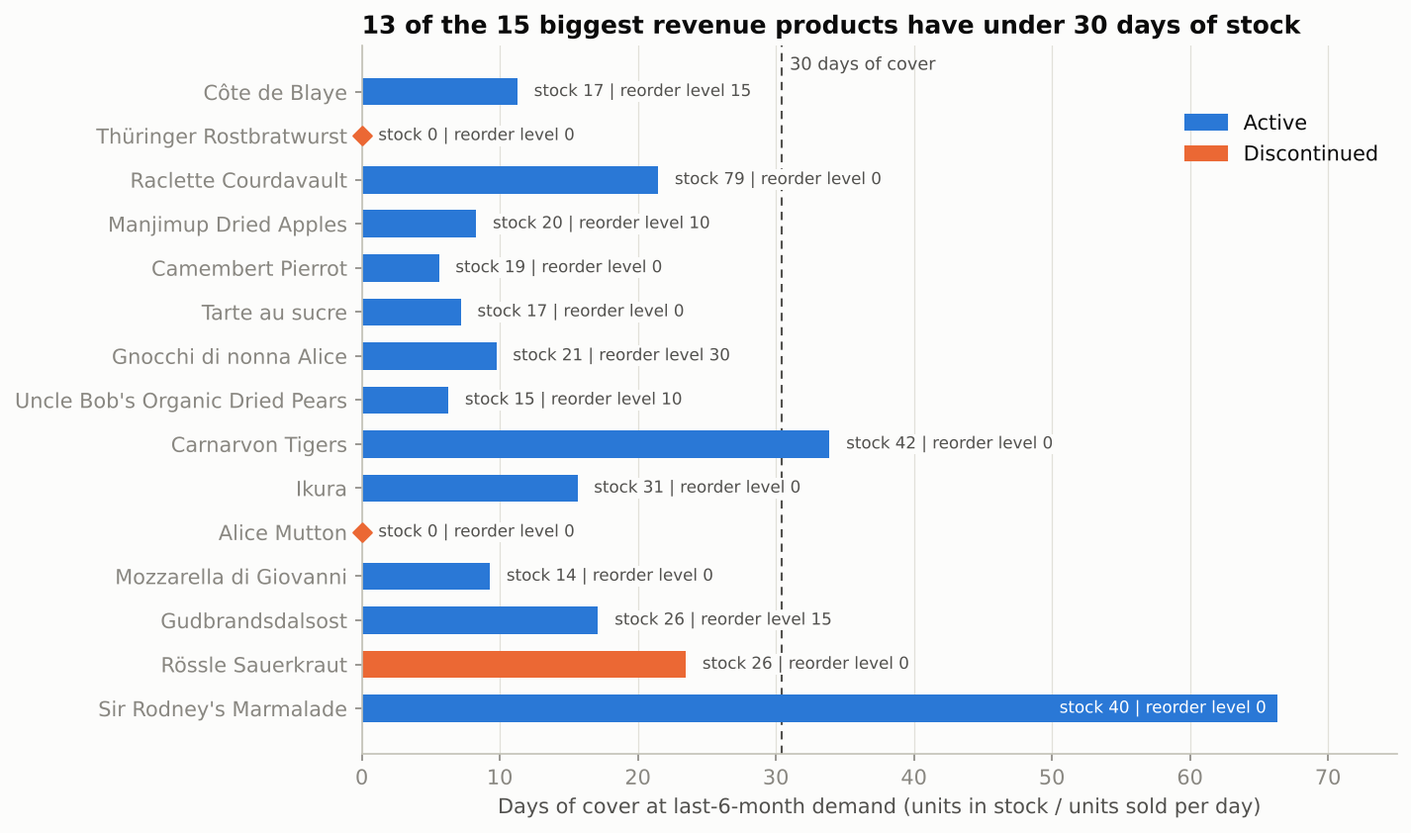
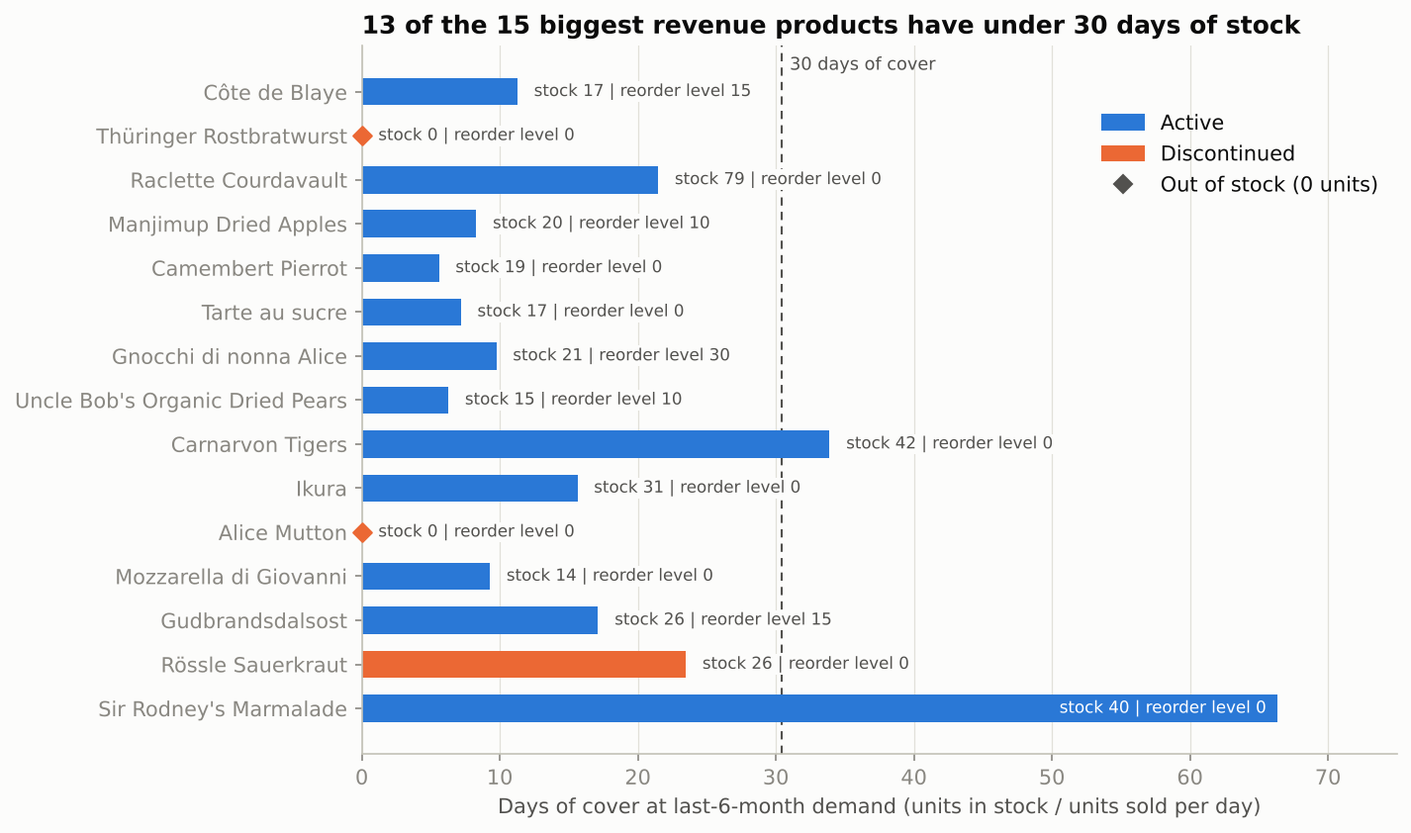
Plain-language webpage, clearer figures, etc

Changed region(s): [[0.7714, 0.1235, 0.9874, 0.247]]

diff --git a/docs/index.html b/docs/index.html
@@ -35,11 +35,11 @@
 <body>
 <main>
 <h1>Northwind: three questions about stock, growth and discounts</h1>
-<p class="lede">The Northwind database covers 830 orders (2,155 order lines) from July 1996 to early May 1998, with 91 customers, 77 products and 29 suppliers. I picked three questions where the data can support an answer, and I state where it cannot. Every number and chart here is produced by the Python code in the <a href="https://github.com/Cheltonio/Northwind-Database-Analysis-Code">GitHub repository</a>.</p>
+<p class="lede">The Northwind database covers 830 orders (2,155 order lines) from July 1996 to early May 1998, with 91 customers (89 of them placed an order), 77 products and 29 suppliers. I picked three questions the data can actually answer, and each section says where the data falls short. Every number and chart here is produced by the Python code in the <a href="https://github.com/Cheltonio/Northwind-Database-Analysis-Code">GitHub repository</a>.</p>
 
 <h3>Data notes that apply throughout</h3>
 <ul class="caveat">
-  <li><strong>Price increase.</strong> Prices rose a uniform 25% on 7 April 1997. To keep that from looking like growth, "constant-price revenue" values every line at the current list price: list price × quantity × (1 − discount).</li>
+  <li><strong>Price increase.</strong> Prices rose a uniform 25% on 7 April 1997. To keep that from looking like growth, "constant-price revenue" prices every line at the current list price, so a sale is worth the same in 1996 as in 1998 (list price × quantity × (1 − discount)).</li>
   <li><strong>Partial final month.</strong> Data ends on 6 May 1998, so May 1998 is excluded and all windows end in April 1998.</li>
   <li><strong>No cost data.</strong> Everything is revenue, not profit.</li>
 </ul>
@@ -53,7 +53,7 @@
   <p>A stock-out on a product that sells well costs revenue immediately, while a reorder level that ignores demand means the replenishment rule is not doing its job. Revenue is concentrated, so a few products carry most of the risk.</p>
 
   <h3>Approach</h3>
-  <p>Demand is each product's average monthly units over the last six full months (Nov 1997 to Apr 1998). Days of cover is units in stock divided by demand, scaled to days. I compare reorder levels to demand with a Spearman rank correlation, measure how revenue concentrates across products and suppliers, and repeat the cover calculation with 3-month and all-time demand windows to check the result does not depend on the window.</p>
+  <p>Demand is each product's average monthly units over the last six full months (Nov 1997 to Apr 1998). Days of cover is units in stock divided by demand, scaled to days. To see whether reorder levels follow demand, I check whether products that sell more also have higher reorder levels (a rank correlation, where 0 means no link and 1 means a perfect link). I also measure how much revenue comes from a few products and suppliers, and repeat the cover calculation with 3-month and all-time demand to confirm the answer does not depend on the time window.</p>
 
   <figure>
     <img src="figures/q1_reorder_vs_demand.png" alt="Scatter plot of reorder level against average monthly units sold; no visible relationship">
@@ -77,12 +77,12 @@
   </table></div>
 
   <h3>Main finding</h3>
-  <div class="finding"><p>Reorder levels are unrelated to demand (Spearman ρ = −0.01). 24 products have a reorder level of zero, and together they carry 41.8% of recent revenue. 13 of the 15 highest-revenue products have under 30 days of stock, and 80% of recent revenue sits in products with under 30 days of cover. Only one product is below its reorder level with nothing on order, so the problem is the rule, not missed execution of it.</p></div>
+  <div class="finding"><p>Reorder levels have essentially no link to demand (correlation −0.01, where 0 means none). 24 products have a reorder level of zero, and together they carry 41.8% of recent revenue. 13 of the 15 highest-revenue products have under 30 days of stock, and 80% of recent revenue sits in products with under 30 days of cover. Only one product is below its reorder level with nothing on order, so the problem is the reorder rule itself, not staff ignoring it.</p></div>
 
   <h3>Business implication</h3>
   <p>Reset reorder levels from demand (for example, a target number of days of cover with a supplier lead-time buffer), starting with the 11 products that make up half of revenue. Review the 8 discontinued products separately, since they still account for 13.7% of recent revenue.</p>
 
-  <p class="caveat"><strong>Limits.</strong> The stock figures are a single undated snapshot, so cover is measured against past demand, not a forecast. There is no lead-time data, so "under 30 days" is a screening threshold, not proof of a stock-out. 76 of the 77 products sold in the window. The count of products flagged as under 30 days among active products is 38, 36 and 34 under the 6-month, 3-month and all-time windows, and 30 are flagged in all three.</p>
+  <p class="caveat"><strong>Limits.</strong> The stock figures are a single undated snapshot, so cover is measured against past demand, not a forecast. There is no lead-time data, so "under 30 days" is a screening threshold, not proof of a stock-out. 76 of the 77 products sold in the window. Counting only active (not discontinued) products, 38, 36 and 34 are under 30 days of cover using 6-month, 3-month and all-time demand, and 30 are flagged under all three.</p>
 </section>
 
 <!-- ============ Q2 ============ -->
@@ -94,7 +94,7 @@
   <p>Each source of growth calls for a different plan: acquiring customers, getting existing customers to order more often, or growing order size. Knowing which markets are ahead of or behind the company average shows where sales effort is most likely to pay off.</p>
 
   <h3>Approach</h3>
-  <p>I compare two ten-month windows, Jul 1996 to Apr 1997 and Jul 1997 to Apr 1998, using constant-price revenue. Revenue is split exactly as customers × orders per customer × revenue per order, and the dollar change is attributed to each factor with a logarithmic-mean weighting. Markets are assigned by the customer's country. For each market I measure the "gap vs. company growth": its actual revenue in the later window minus what it would have earned had it grown at the company rate. A like-for-like check follows only the 42 customers who were already ordering in the earlier window.</p>
+  <p>I compare two ten-month windows, Jul 1996 to Apr 1997 and Jul 1997 to Apr 1998, using constant-price revenue. Revenue equals the number of customers × orders per customer × revenue per order, so I split the dollar change into those three pieces (using a standard weighting so the pieces add up exactly to the total). Markets are assigned by the customer's country. For each market I measure its "gap vs. company growth": its actual revenue in the later period minus what it would have earned if it had grown at the company-wide rate. As a check, I also follow only the 42 customers who were already ordering in the earlier period, so new customers cannot explain the result.</p>
 
   <figure>
     <img src="figures/q2_growth_drivers_by_market.png" alt="Bar chart decomposing revenue change by market into customers, orders per customer and order size">
@@ -137,7 +137,7 @@
   <p>Discounts cost revenue on every unit that would have sold anyway. They only pay off if they bring in enough extra units to cover it, and a discount of d% needs a lift of d/(1−d), for example 33% extra units for a 25% discount.</p>
 
   <h3>Approach</h3>
-  <p>38.9% of the 2,155 order lines carry a discount (5%, 10%, 15%, 20% or 25%), giving up $88.7K, or 6.5% of $1.35M gross revenue at listed prices. I regress log quantity on discount-tier indicators, always holding the product fixed, and then add customer fixed effects so the comparison is a customer against itself. Intervals come from an order-level bootstrap (1,000 resamples). Order 11077 has off-tier discounts and is left out of the tier models. This is an association: Northwind did not randomize discounts, and there is no cost data.</p>
+  <p>38.9% of the 2,155 order lines carry a discount (5%, 10%, 15%, 20% or 25%), giving up $88.7K, or 6.5% of $1.35M gross revenue at listed prices. To estimate how many extra units a discount brings, I use a regression that compares the quantity ordered at each discount level against no discount for the same product. I then add a second version that also compares each customer only against itself, because some customers may simply order more. The ranges shown (95% confidence intervals) come from re-running the analysis on 1,000 resampled sets of orders. Order 11077 has off-tier discounts and is left out of the tier models. This is an association: Northwind did not randomize discounts, and there is no cost data.</p>
 
   <figure>
     <img src="figures/q3_discount_lift_vs_break_even.png" alt="Estimated unit lift by discount tier with and without customer controls, against break-even lift">
@@ -162,8 +162,8 @@
   </table></div>
 
   <h3>Main finding</h3>
-  <div class="finding"><p>Discounted lines sell more units (27.5 vs. 21.9 on average, Kruskal-Wallis p ≈ 2×10⁻⁹), and within the same product the estimated lift is about 30% at every tier. Deeper discounts do not lift more: the 25% tier is not distinguishable from the 5% tier. But the lift largely vanishes when I compare a customer with itself, where every tier's interval includes zero. Larger customers are discounted more often (Spearman 0.40 between customer volume and discount share), so much of the raw lift reflects who gets discounts, not what the discount did.</p></div>
-  <p>Counting all of the across-customer lift as caused by discounts, discounts would net about +$52K (95% CI +$14K to +$96K), mostly from the 5% tier. Under the same-customer estimate the net is about −$71K (−$117K to −$29K), with the 10% to 25% tiers each losing money. Four of five tiers have a confidence interval that dips below their break-even lift even under the optimistic estimate.</p>
+  <div class="finding"><p>Discounted lines sell more units (27.5 vs. 21.9 on average, Kruskal-Wallis p ≈ 2×10⁻⁹), and when the same product is compared, discounted lines sell roughly 30% more units, at every tier. Deeper discounts do not lift more: the 25% tier is not distinguishable from the 5% tier. But the extra units largely disappear when each customer is compared only with itself: for every tier, the range of plausible values includes zero. Larger customers are discounted more often (Spearman 0.40 between customer volume and discount share), so much of the apparent lift reflects who receives discounts, not what the discount did.</p></div>
+  <p>Counting all of the across-customer lift as caused by discounts, discounts would net about +$52K (95% CI +$14K to +$96K), mostly from the 5% tier. Under the same-customer estimate the net is about −$71K (−$117K to −$29K), with the 10% to 25% tiers each losing money. Even under the optimistic estimate, for four of the five tiers the plausible range for the lift dips below what is needed to break even.</p>
 
   <h3>Business implication</h3>
   <p>The evidence does not support deep discounts as a volume driver: depth does not buy more units, and a 25% discount needs a 33% lift to break even. If discounts continue, shallow ones targeted at accounts where they can be tested are the defensible choice. Better still, run a controlled test (discount a random subset of comparable accounts) to separate customer effects from discount effects. Discount frequency also varies across employees (31.5% to 50.4% of lines), which suggests discounts are not following a consistent rule.</p>
@@ -172,7 +172,7 @@
 </section>
 
 <footer class="caveat">
-  <p>Source: Northwind database PDF, extracted to CSV by <code>src/extract_data.py</code>. Reproduce everything with <code>python src/run_all.py</code>; see the repository README.</p>
+  <p>Source: Northwind database PDF, extracted to CSV by <code>src/extract_data.py</code>. Reproduce everything with <code>python src/run_all.py</code>; instructions are in the repository README.</p>
 </footer>
 </main>
 </body>

diff --git a/src/q3_discounts.py b/src/q3_discounts.py
@@ -90,7 +90,8 @@ def revenue_components(price, qty, disc, lifts):
     caused by the discount.
 
     Args:
-        price (numpy.ndarray): List unit price per line.
+        price (numpy.ndarray): Pre-discount unit price charged per
+            line (``UnitPrice``, not ``ListPrice``).
         qty (numpy.ndarray): Units sold per line.
         disc (numpy.ndarray): Discount rate per line.
         lifts (numpy.ndarray): Fractional unit lift for each tier.
@@ -220,9 +221,12 @@ def selection_tables(d):
         d (pandas.DataFrame): Output of ``tier_data``.
 
     Returns:
-        tuple: Discount share by customer-size quartile; by employee;
-        Spearman rho of customer units and discount share; chi-square
-        p-value across employees; Spearman rho of order value and mean
+        tuple[pandas.DataFrame, pandas.DataFrame, float, float, float]:
+        Customers, lines and discounted share per customer-volume
+        quartile; lines, discounted share and mean depth when
+        discounted per employee; Spearman rho of customer units vs.
+        discounted share; chi-square p-value of discounting across
+        employees; Spearman rho of pre-discount order value vs. mean
         discount.
     """
     d = d.copy()
@@ -290,7 +294,7 @@ def plot_lift(tables):
     ax.scatter(x, be, marker="D", s=70, facecolor="none", edgecolor=INK, linewidth=1.4, zorder=4,
                label="Lift needed to break even on revenue")
     for xi, v in zip(x, be):
-        ax.annotate(f"{v:.0f}%", (xi, v), xytext=(-10, -2), textcoords="offset points", ha="right",
+        ax.annotate(f"{v:.0f}%", (xi, v), xytext=(0, 11), textcoords="offset points", ha="center",
                     fontsize=8.5, color=INK_2, va="center")
     ax.axhline(0, color=INK_2, lw=0.8)
     ax.set_xticks(x)
@@ -322,7 +326,7 @@ def plot_revenue(rev_by_spec):
         r = rev_by_spec[spec]
         point_range(ax, x, r["net_revenue_effect"].values / 1000, r["net_ci_low"].values / 1000,
                     r["net_ci_high"].values / 1000, SCENARIO_COLORS[spec],
-                    f"If the lift is the {SCENARIO_LABELS[spec].lower()} estimate", offset)
+                    f"Assuming the lift measured within: {SCENARIO_LABELS[spec].lower()}", offset)
         for xi, v in zip(x, r["net_revenue_effect"].values / 1000):
             ax.annotate(f"{v:+.0f}K", (xi + offset, v), xytext=(9 if offset > 0 else -9, 0),
                         textcoords="offset points", va="center",

diff --git a/src/q2_markets.py b/src/q2_markets.py
@@ -220,9 +220,9 @@ def plot_drivers(grouped):
         pos_left += np.where(vals >= 0, vals, 0)
         neg_left += np.where(vals < 0, vals, 0)
     ax.scatter(order["usd_change"] / 1000, y, marker="D", s=46, color=INK, zorder=4)
-    for yi, v in zip(y, order["usd_change"] / 1000):
-        ax.annotate(f"{v:+.0f}K", (v, yi), xytext=(8 if v >= 0 else -8, 0), textcoords="offset points",
-                    va="center", ha="left" if v >= 0 else "right", fontsize=8.5, color=INK_2)
+    for yi, v, edge in zip(y, order["usd_change"] / 1000, pos_left):
+        ax.annotate(f"net {v:+.0f}K".replace("-", "\u2212"), (max(edge, v), yi), xytext=(10, 0),
+                    textcoords="offset points", va="center", ha="left", fontsize=8.5, color=INK_2)
     ax.axvline(0, color=INK_2, lw=0.8)
     ax.set_yticks(y)
     ax.set_yticklabels(labels)
@@ -231,7 +231,7 @@ def plot_drivers(grouped):
     handles = [Patch(color=colors[k], label=DRIVER_LABELS[k]) for k in DRIVERS]
     handles.append(plt.Line2D([0], [0], marker="D", color="none", markerfacecolor=INK,
                               markeredgecolor=INK, label="Net change", markersize=6))
-    ax.legend(handles=handles, loc="center right", bbox_to_anchor=(1.0, 0.45))
+    ax.legend(handles=handles, loc="upper center", bbox_to_anchor=(0.45, -0.13), ncol=2, frameon=False)
     ax.grid(axis="y", visible=False)
     save_fig(fig, "q2_growth_drivers_by_market")
 

diff --git a/src/q1_inventory.py b/src/q1_inventory.py
@@ -20,7 +20,7 @@ DAYS_PER_MONTH = 30.4
 
 
 def monthly_units(lines):
-    """Total units per product and month, to the last full month.
+    """Sum units per product and month, up to the last full month.
 
     Args:
         lines (pandas.DataFrame): Order lines from ``build_lines``.
@@ -163,7 +163,9 @@ def plot_cover(d):
     ax.set_xlabel("Days of cover at last-6-month demand (units in stock / units sold per day)")
     ax.set_xlim(0, 75)
     ax.set_title(f"{n_under} of the 15 biggest revenue products have under 30 days of stock")
-    ax.legend(handles=[Patch(color=BLUE, label="Active"), Patch(color=ORANGE, label="Discontinued")],
+    ax.legend(handles=[Patch(color=BLUE, label="Active"), Patch(color=ORANGE, label="Discontinued"),
+                       plt.Line2D([0], [0], marker="D", color="none", markerfacecolor=INK_2,
+                                  markeredgecolor=INK_2, markersize=6, label="Out of stock (0 units)")],
               loc="upper right", bbox_to_anchor=(1.0, 0.93))
     ax.grid(axis="y", visible=False)
     save_fig(fig, "q1_cover_top_products")

diff --git a/.claude/skills/python-docstrings/SKILL.md b/.claude/skills/python-docstrings/SKILL.md
@@ -1,0 +1,221 @@
+---
+name: python-docstrings
+description: Write concise PEP 8 / PEP 257 compliant docstrings for Python code in a single pass. Every function and method docstring gets one line per input parameter and a line for the output. After writing, show the user each docstring and list any ambiguities that were resolved by assumption, so the user can accept the result or ask for fixes. Use when the user asks to document Python code, add or fix docstrings, or make docstrings PEP 8 / PEP 257 compliant.
+---
+
+# Python Docstrings
+
+Write docstrings for the Python code the user points to in **one pass, without asking questions first**. Then report what was written and what was assumed. The user decides whether the result is good enough or whether to continue the conversation to fix it.
+
+## Workflow
+
+### 1. Determine Scope
+
+Document what the user named: a file, a function, a selection, or a directory. If nothing is named but Python code is in the conversation, document that.
+
+- Default to **all functions, methods, and classes** in scope, plus the module docstring if the user gave a whole file.
+- Skip functions that already have a docstring meeting every rule below. Rewrite ones that don't, and say so in the report.
+- Only ask before starting if the scope itself can't be determined (e.g., "document my code" with no file and no code in the conversation).
+
+### 2. Read Before Writing
+
+Read each function's full body, not just its name and signature. Also read:
+- Functions it calls and functions that call it, when needed to understand what an argument means or what the return value is used for
+- Project config (`pyproject.toml`, `setup.cfg`, `.ruff.toml`) for a `pydocstyle` convention or line-length setting
+- A few existing docstrings in the project to detect the style in use
+
+### 3. Write the Docstrings
+
+Edit the file in place, touching **only docstrings**. Never change code, names, signatures, or formatting. If you notice a bug, note it in the report and leave the code alone.
+
+Follow the **Docstring Rules** below. Aim for the shortest docstring that is accurate and complete.
+
+### 4. Resolve Ambiguity by Principled Choice
+
+When the meaning of a parameter or return value isn't certain from the code, **don't stop to ask**. Pick the most defensible reading and record it. In order of preference, base the choice on:
+
+1. What the code actually does (always wins over the name)
+2. How callers in the codebase use it
+3. Names, type hints, and default values
+4. Domain conventions (e.g., `fps` is frames per second, `lr` is learning rate)
+
+Describe behavior the code actually has, even if it looks unintended. For example, if a function mutates its input and also returns it, document both. Don't write vague wording to hide uncertainty ("some value", "the data"). Commit to a specific description and flag it.
+
+### 5. Report
+
+After editing, reply with the following and nothing more:
+
+**Docstrings written**: for each function, method, or class, its location and the docstring as written:
+
+````markdown
+#### `resample_frames` — [video.py:42](video.py:42)
+```python
+"""Resample video frames to a new frame rate.
+
+Args:
+    frames (list[numpy.ndarray]): RGB frames in display order.
+    target_fps (float): Output frame rate in frames per second.
+
+Returns:
+    list[numpy.ndarray]: Resampled frames, same shape and dtype.
+"""
+```
+````
+
+**Assumptions to check**: a numbered list of every ambiguity resolved by choice. Each item names the function and parameter, states what was assumed, and gives the evidence for it in one sentence:
+
+```markdown
+1. `resample_frames` / `target_fps`: assumed frames per second, not
+   a ratio. It is divided into `len(frames) / duration` on line 51.
+2. `load_labels` returns `None` when the file is missing, because the
+   `FileNotFoundError` is caught on line 88. Documented as a return case.
+```
+
+If there were none, write "None. Every docstring is based directly on the code."
+
+**Also noticed** (only if applicable): suspected bugs, misleading names, or stale comments. One line each. Don't fix them.
+
+End with one line telling the user they can reply with numbered corrections (e.g., "1: it's a ratio") or ask for any docstring to be rewritten.
+
+Don't add extra commentary, restate the rules, or describe the process.
+
+### Follow-up Turns
+
+If the user replies with corrections, apply them, then show only the docstrings that changed. If a correction affects other docstrings (e.g., a shared parameter like `df` that appears across functions), update those too and say which ones.
+
+## Docstring Rules
+
+### Conciseness
+
+- The summary line says what the function does in as few words as possible. No "This function...", "Helper to...", or "Used to...".
+- Add an extended description only when the summary and the argument and return lines can't convey something the caller needs: a side effect, a non-obvious algorithm, a precondition, or a performance caveat. Most functions need none.
+- Each parameter line is one short phrase saying what the value **is**, plus a unit, range, shape, or `None` meaning only when it matters. Wrap to a second line only when necessary.
+- Don't restate the type in prose ("an integer that is...") or the obvious ("the path to the file" for `path`, unless saying what file).
+- Omit `Examples` sections unless the user asks for them.
+
+### The Input/Output Rule (mandatory)
+
+Every function and method docstring is multi-line and contains:
+
+1. **One line per input parameter**, in signature order, with name, type, and what it represents. Include `*args`, `**kwargs`, and keyword-only parameters. Exclude only `self` and `cls`. Mention a default only when its effect isn't obvious.
+2. **An output line, always**:
+   - `Returns:` with type and meaning.
+   - For no return value: `Returns:` / `None.`, optionally with what the function does instead ("None. Writes the CSV to ``out_path``.").
+   - For generators: `Yields:` with the type and meaning of each item.
+   - For tuples: describe each element.
+3. **`Raises:`** only for exceptions the function raises on purpose and that callers should handle.
+
+If the function takes no parameters, write `Args:` / `None.`
+
+Type hints don't remove the need for any of these lines. If the signature has hints, the docstring type may be left out only if the project's existing docstrings do so.
+
+### PEP 8 / PEP 257 Format
+
+- Triple double quotes `"""`. Use `r"""` if the docstring contains backslashes.
+- Summary line: one line, imperative mood ("Return...", not "Returns..."), ends with a period, doesn't restate the signature.
+- One blank line between the summary and the rest.
+- The closing `"""` goes on its own line for multi-line docstrings.
+- No blank line before or after a function docstring. One blank line after a class docstring.
+- Body indented to match the opening quotes.
+- Lines at most 72 characters, unless project config says otherwise.
+- Module docstrings go at the very top of the file, before imports. One or two lines describing what the module provides.
+- Class docstrings: summary, constructor `Args:`, and public `Attributes:`. Put constructor args in the class docstring or in `__init__`, matching the project, never both.
+
+### Style
+
+Use the project's existing style (Google, NumPy, or reST). If there is none, use **Google style**. Never mix styles in one project.
+
+**Google (default):**
+
+```python
+def save_labels(labels, out_path):
+    """Write frame labels to a CSV file.
+
+    Args:
+        labels (dict[int, str]): Label for each frame index.
+        out_path (pathlib.Path): Destination CSV; overwritten if present.
+
+    Returns:
+        None.
+    """
+```
+
+```python
+def iter_batches(items, size):
+    """Split items into consecutive batches.
+
+    Args:
+        items (Sequence[Any]): Items to split.
+        size (int): Maximum batch length.
+
+    Yields:
+        list[Any]: Next batch; the last may be shorter than ``size``.
+    """
+```
+
+```python
+class FrameCache:
+    """In-memory cache of decoded frames with oldest-first eviction.
+
+    Args:
+        max_frames (int): Maximum number of frames held.
+
+    Attributes:
+        hits (int): Lookups served from the cache.
+    """
+
+    def get(self, index):
+        """Return a cached frame.
+
+        Args:
+            index (int): Zero-based frame index.
+
+        Returns:
+            numpy.ndarray | None: The frame, or None if not cached.
+        """
+```
+
+**NumPy:**
+
+```python
+def scale(x, factor):
+    """Multiply an array by a scalar.
+
+    Parameters
+    ----------
+    x : numpy.ndarray
+        Values to scale.
+    factor : float
+        Multiplier.
+
+    Returns
+    -------
+    numpy.ndarray
+        New array ``x * factor``; ``x`` is unchanged.
+    """
+```
+
+**reST / Sphinx:**
+
+```python
+def scale(x, factor):
+    """Multiply an array by a scalar.
+
+    :param x: Values to scale.
+    :type x: numpy.ndarray
+    :param factor: Multiplier.
+    :type factor: float
+    :returns: New array ``x * factor``; ``x`` is unchanged.
+    :rtype: numpy.ndarray
+    """
+```
+
+## Self-Check Before Reporting
+
+Before writing the report, verify each docstring against its signature:
+- Each parameter except `self`/`cls` appears exactly once, in order, with the exact name
+- A `Returns:` or `Yields:` section is present, including for `None`
+- Documented defaults and raised exceptions match the code
+- No line exceeds the length limit
+
+If a shell is available and the project already uses `ruff` or `pydocstyle`, run it on the edited files and fix what it reports. Don't install tools or add config unless asked.
